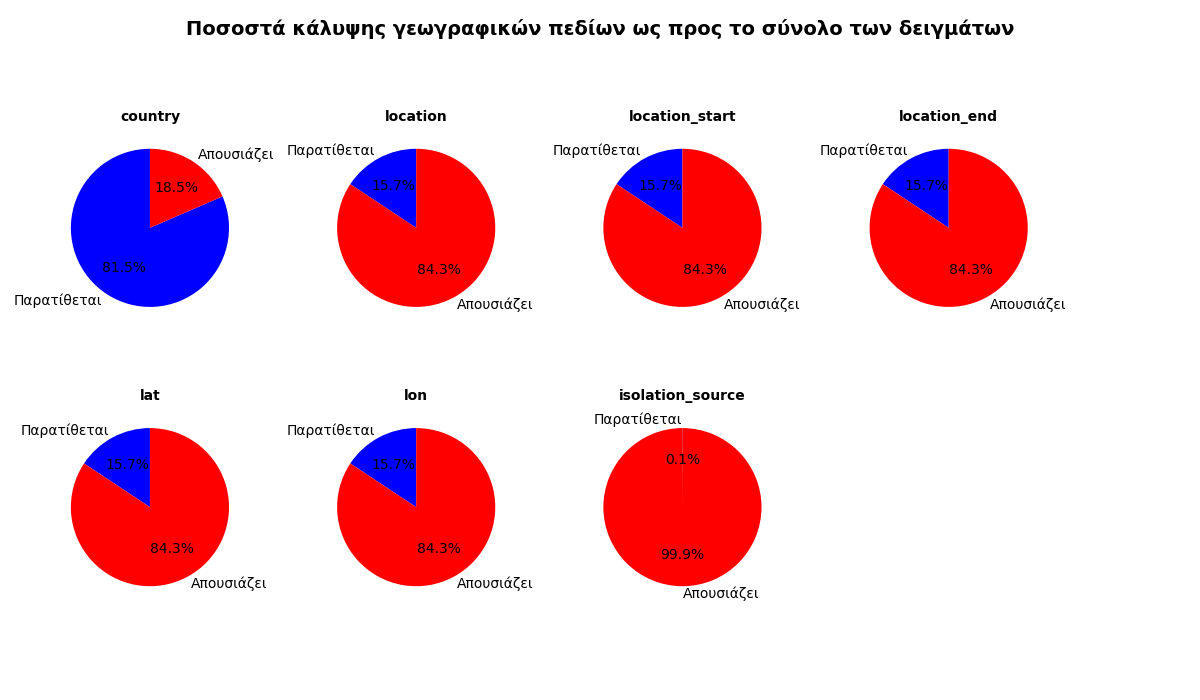
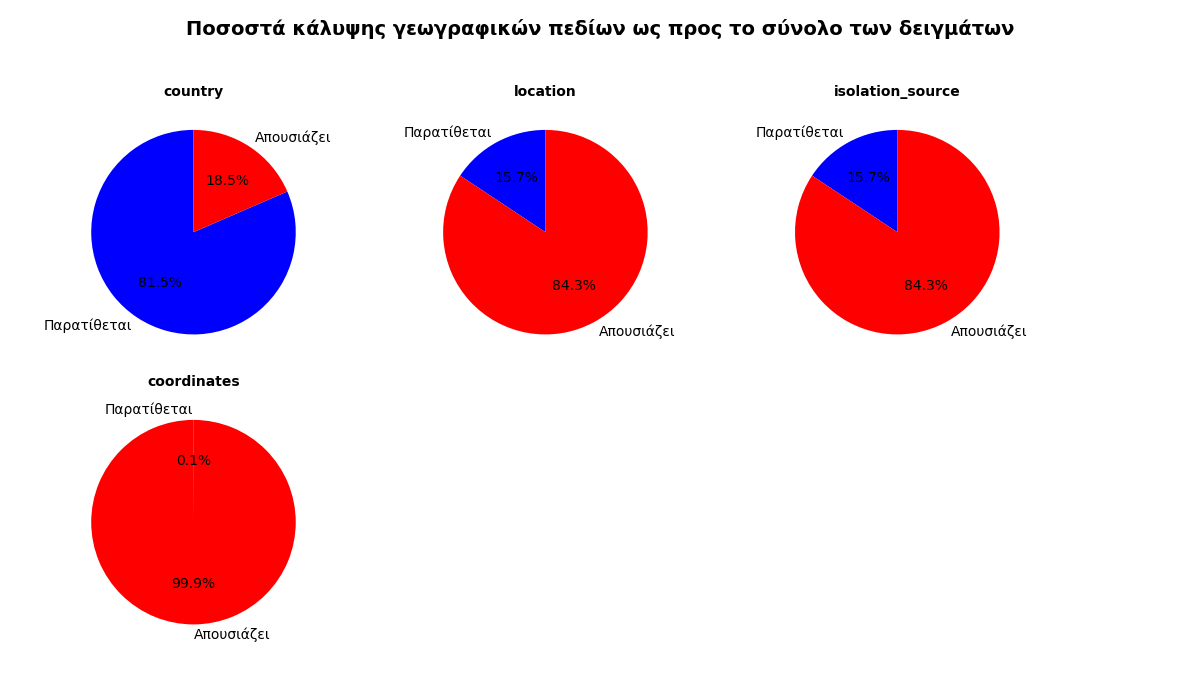
methodology

diff --git a/visualization.py b/visualization.py
@@ -17,7 +17,7 @@ total_samples = len(data)
 # Βήμα 2: Ορίζουμε ένα λεξικό, geo_fields, οπου κάθε αντικείμενό του (fields) είναι ένα πεδίο των αντικειμένων του λεξικού data, το οποίο και όμως φέρει γεωγραφική πληροφορία. Πεδιά του στύλ χώρα, συντεταγμένες lat, lon, κλπ. Ορίζουμε μια λίστα με χρώματα.
 
 geo_fields = [
-    "country", "location", "location_start", "location_end", "isolation_source", "lat", "lon"
+    "country", "location", "isolation_source", "lat", 
 ]
 
 colors_bar_chart = [
@@ -157,6 +157,7 @@ field_percentages = [ (value / total_samples) * 100 for value in field_values ] 
 
 # Βήμα 10: Bar Chart για την απεικόνιση των δειγμάτων που έχουν γεωγραφική πληροφορία.
 
+field_names = ["country", "location", "coordinates", "isolation_source"]
 plt.figure(figsize=(9,5))
 plt.bar(field_names, field_values, color=colors_bar_chart) #σε .bar() δεν ορίζουμε ως labels=   
 for i, value in enumerate(field_values):
@@ -178,13 +179,17 @@ plt.figure(figsize=(12,7))
 plt.figtext(0.5, 0.95, "Ποσοστά κάλυψης γεωγραφικών πεδίων ως προς το σύνολο των δειγμάτων", ha="center", fontsize=14, fontweight="bold") # ορίζουμε τίτλο οχι με .title() αλλά με .figtext() γιατί το .title() θα το χρειαστούμε αργότερα για κάθε ξεχωριστό pie chart.
 
 rows = 2    # ορίζουμε μεταβλητές για γραμμες και στηλες που θα ορίσουν τα 8 κελιά που καθένα θα περιέχει ένα pie chart.
-cols = 4
-
+cols = 3
 # Δημιουργία πολλαπλών pie charts μέσα σε ένα πεδίο με κελιά (grid). Ένα κελί για κάθε geo_field.
 
 # η enamurate μας επιτρέπε να τοποθετούμε τα την κάθε πίτα σε διαφορετικό κελί χρησιμοποιώντας μια μεταβλητή idx, και τα αντιστοιχεί σε ένα-ένα τα αντικείμενα της λίστας field_names. Aναλυτικότερα:
 
 # εκτελούμε βρόγχο for, όπου η idx παίρνει αριθμητικές θέσεις (0,1,2, ...), όπου field_name το αντικείμενο της λίστας field_names και field_value το αντικείμενο της λίστας field_values. Με την zip δένουμε το κάθε αντικείμενο στην λίστα του. Η emurate προσθέτει το κάθε αντικείμενο των 2 λιστών σε ένα αντικείμενο idx. Στο βρόγχο αυτό, υπολογίζουμε την διαφορά του συνόλου των δειγμάτων απο την τιμή field_value.
+
+# μικρη αλλαγη στα field_names, αντι για lat και lot να έχουμε coordinates.
+
+field_names = ["country", "location", "coordinates", "isolation_source"]
+
 for idx, (field_name, field_value) in enumerate(zip(field_names, field_values)):
     missing = total_samples - field_value
     sizes = [field_value, missing] #ορίζουμε τα μεγέθη του pie chart.
@@ -193,9 +198,6 @@ for idx, (field_name, field_value) in enumerate(zip(field_names, field_values)):
     plt.subplot(rows, cols, idx + 1)    # Το plt.subplot() δημιουργεί πολλαπλά γραφήματα (subplots) σε μία ενιαία εικόνα. Του δίνουμε τις μεταβλητες που ορισαμε παραπάνω γραμμές και στήλες και μετά τη μεταβλητή idx που παίρνει αριθμητικές θέσεις για field_name.Επειδή το enumerate() ξεκινάει από 0, αλλά το subplot() περιμένει θέσεις ξεκινώντας από 1. Άρα: idx = 0 → θέση 1 idx = 1 → θέση 2. Ειμαστέ έτοιμοι τωρα να ορισουμε .pie().
     plt.pie(sizes,labels=labels,autopct="%1.1f%%", startangle=90, colors=colors)
     plt.title(field_name, fontsize=10, fontweight="bold")
-
-
-
 plt.tight_layout(rect=[0, 0.05, 0.9, 0.9])
 plt.savefig("geo_fields_pie_matrix.png")
 plt.show()
